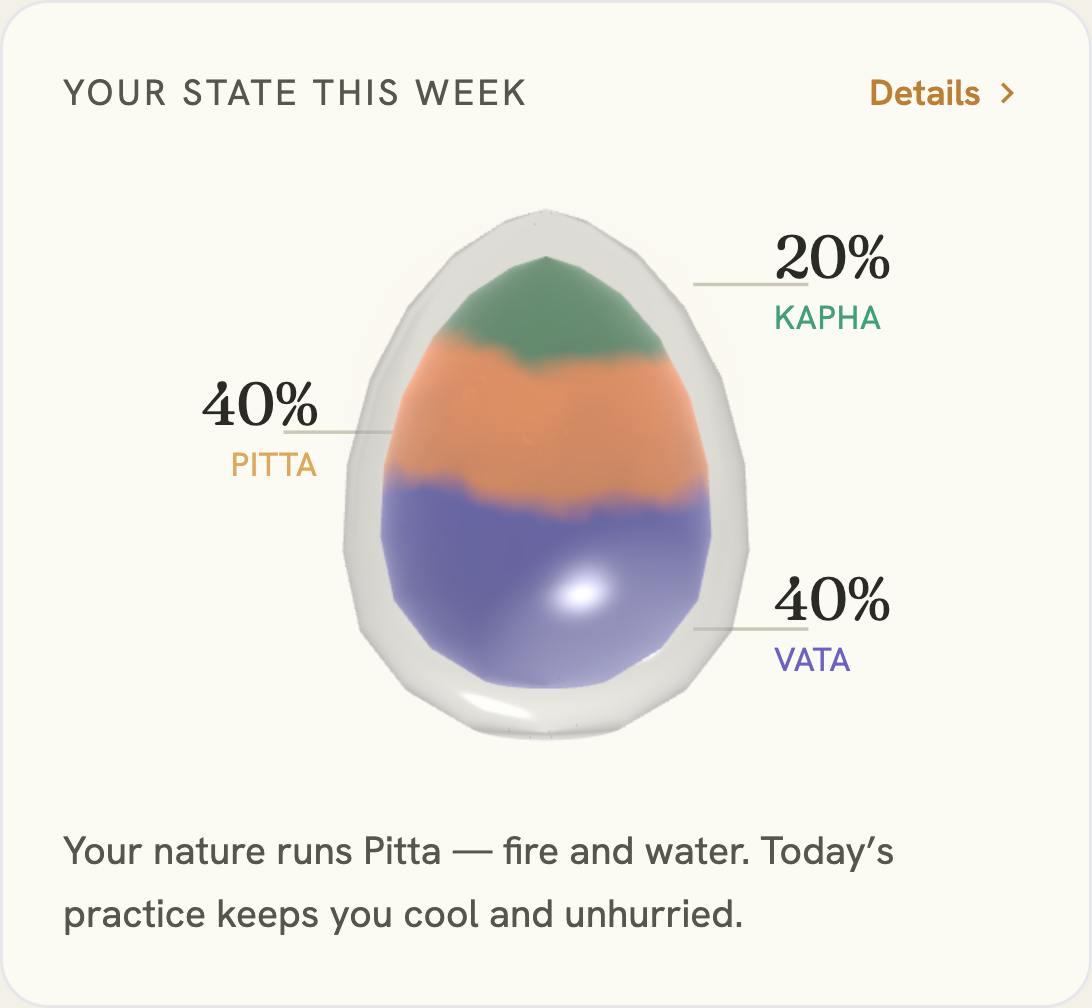
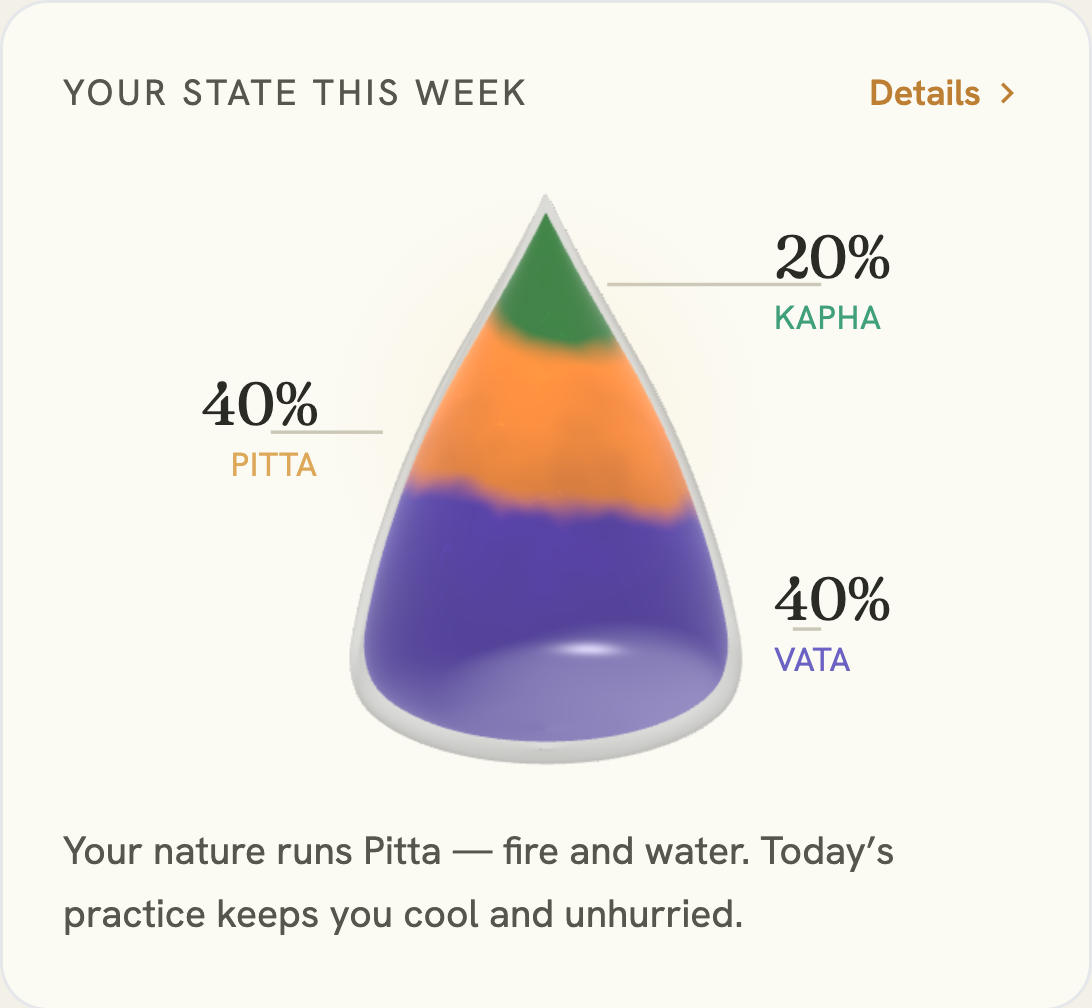
feat(gem): richer teardrop gem — smooth silhouette, edge-aligned labels
Reworked the WebGL dosha gem toward the liquid-glass look:
- teardrop profile (was an egg), smoothed via a Catmull-Rom spline through
  the control points instead of faceted straight segments
- vivid jewel palette (amethyst / honey-gold / emerald), decoupled from the
  softer label swatches; richer depth contrast, tamed specular blowout
- clearer, near-neutral glass shell so the colour reads through
- legend leader lines now terminate exactly on the gem's edge at each band's
  height (gemRadiusAtU), no floating margin at the narrow tip

Re-shot the website hero + home mockup from the new gem.

Changed region(s): [[0.3114, 0.1845, 0.7161, 0.7688]]

diff --git a/src/components/DoshaGem.jsx b/src/components/DoshaGem.jsx
@@ -20,14 +20,40 @@ export const GEM_HUE = {
   pitta: { deep: '#a86a24', base: '#dda85a', light: '#f8dc9f' }, // honey-gold
   kapha: { deep: '#2e6f57', base: '#3fa07a', light: '#8fd4b3' }, // teal-green
 }
+// Liquid hues for the gem itself — more saturated/luminous than the label
+// swatches above, so the glass reads as vivid jewel-toned liquid (the label
+// text keeps the softer GEM_HUE so it stays legible on the card).
+const GEM_LIQUID = {
+  vata:  '#8a3fd4', // amethyst violet
+  pitta: '#edb412', // rich honey-gold
+  kapha: '#0fa457', // deep emerald
+}
 const DOSHAS = ['vata', 'pitta', 'kapha']
 
-// Egg profile (radius, height) revolved into the vessel — rounder + wider than a
-// teardrop, so it sits well in the card.
+// Teardrop profile (radius, height) revolved into the gem — a sharp tip up top
+// widening to a full, round bottom, matching the liquid-glass gem art. Height
+// kept ~±1.35 so it fills the card the same as the old egg.
 const PROFILE = [
-  [0.001, 1.28], [0.22, 1.2], [0.47, 1.03], [0.69, 0.77], [0.87, 0.42],
-  [0.98, 0.0], [1.0, -0.42], [0.92, -0.8], [0.71, -1.08], [0.4, -1.28], [0.001, -1.34],
+  [0.001, 1.38], [0.17, 1.06], [0.34, 0.76], [0.52, 0.44], [0.68, 0.10],
+  [0.82, -0.28], [0.92, -0.64], [0.965, -0.96], [0.86, -1.18], [0.52, -1.34], [0.001, -1.4],
 ]
+const GEM_MAX_R = Math.max(...PROFILE.map(p => p[0]))
+// Silhouette half-width (as a fraction of the widest point, 0..1) at a stacked
+// band position u — u = 0 at the gem's bottom, 1 at the top, matching the
+// shader's `u = y*0.42 + 0.5` fill axis. The legend uses this so each leader
+// line ends exactly on the gem's edge at that band's height (the teardrop is
+// narrow up top, wide low), instead of stopping at a fixed margin.
+export function gemRadiusAtU(u) {
+  const y = (Math.min(1, Math.max(0, u)) - 0.5) / 0.42
+  for (let i = 0; i < PROFILE.length - 1; i++) {
+    const [r0, y0] = PROFILE[i], [r1, y1] = PROFILE[i + 1]
+    if (y <= y0 && y >= y1) {
+      const t = (y0 - y) / ((y0 - y1) || 1)
+      return (r0 + (r1 - r0) * t) / GEM_MAX_R
+    }
+  }
+  return (y > PROFILE[0][1] ? PROFILE[0][0] : PROFILE[PROFILE.length - 1][0]) / GEM_MAX_R
+}
 
 const NOISE_GLSL = /* glsl */`
 vec4 permute(vec4 x){return mod(((x*34.0)+1.0)*x, 289.0);}
@@ -96,29 +122,30 @@ void main(){
   col = mix(col, uCol1, smoothstep(uT0 - e, uT0 + e, u));
   col = mix(col, uCol2, smoothstep(uT1 - e, uT1 + e, u));
 
-  // liquid depth — rich and dark deep in the body, luminous toward the top
+  // liquid depth — rich and dark deep in the body, luminous toward the top.
+  // wide range → strong volume: deep jewel shadows low, glowing highlights high.
   float depth = smoothstep(-1.2, 1.2, vPos.y + 0.5*(w1 - 0.5));
-  col *= mix(0.98, 1.6, depth);           // more contrast → the liquid gains volume, rich low → bright high
+  col *= mix(0.76, 1.78, depth);          // more contrast → the liquid gains volume, rich low → bright high
   // animated internal swirl ribbons
   float swirl = fbm(pw*2.2 + vec3(warp*1.6, t*0.22));
-  col = mix(col, col*1.28, smoothstep(0.45, 0.78, swirl));
+  col = mix(col, col*1.42, smoothstep(0.42, 0.80, swirl));
   // tiny drifting glints, like light catching the liquid
   float spk = fbm(pw*9.0 + vec3(t*0.5, -t*0.45, t*0.35));
-  col += smoothstep(0.82, 0.95, spk) * 0.65;
+  col += smoothstep(0.82, 0.95, spk) * 0.4;
 
   // glassy highlights: fresnel rim + a tight specular hotspot for a wet, liquid sheen
   vec3 viewDir = normalize(cameraPosition - vWorld);
   vec3 N = normalize(vNormalW);
   float fres = pow(1.0 - max(dot(N, viewDir), 0.0), 2.5);
-  col += fres * 0.30;
+  col += fres * 0.20;
   vec3 L = normalize(vec3(-0.5, 0.95, 0.6));
-  float spec = pow(max(dot(reflect(-L, N), viewDir), 0.0), 22.0);
-  col += spec * 0.9;                       // bright wet hotspot (top-left)
+  float spec = pow(max(dot(reflect(-L, N), viewDir), 0.0), 26.0);
+  col += spec * 0.5;                        // bright wet hotspot (top-left)
   float hl = smoothstep(0.6, 1.0, dot(N, L));
   col += hl * 0.16;                         // soft broad sheen
 
-  // light translucent lift — keep it glassy
-  col = mix(col, vec3(1.0, 0.985, 0.95), 0.12);
+  // light translucent lift — keep it glassy (subtle, so hues stay saturated)
+  col = mix(col, vec3(1.0, 0.985, 0.95), 0.05);
   // encode linear→sRGB for output (a raw ShaderMaterial doesn't get three's
   // automatic colorspace pass, so without this the true colour renders muddy).
   col = pow(clamp(col, 0.0, 1.0), vec3(0.4545));
@@ -169,12 +196,17 @@ export default function DoshaGem({ percentages = null, dominant = null, size = 1
       camera = new THREE.PerspectiveCamera(30, w / h, 0.1, 100)
       camera.position.set(0, 0, 5.6)
 
-      glassGeo = new THREE.LatheGeometry(PROFILE.map(([x, y]) => new THREE.Vector2(x, y)), 96)
+      // Smooth the silhouette: fit a Catmull-Rom spline through the control
+      // points and sample it densely, so the teardrop reads as one flowing
+      // curve rather than faceted straight segments.
+      const spline = new THREE.SplineCurve(PROFILE.map(([x, y]) => new THREE.Vector2(x, y)))
+      const profilePts = spline.getPoints(90).map(p => new THREE.Vector2(Math.max(0.001, p.x), p.y))
+      glassGeo = new THREE.LatheGeometry(profilePts, 128)
       glassGeo.center()
 
       glassMat = new THREE.MeshPhysicalMaterial({
-        color: 0xfffdf8, metalness: 0, roughness: 0.12, transmission: 0.96, thickness: 0.35,
-        ior: 1.5, clearcoat: 1.0, clearcoatRoughness: 0.08, envMapIntensity: 3.0, transparent: true,
+        color: 0xfbfcff, metalness: 0, roughness: 0.045, transmission: 0.98, thickness: 0.18,
+        ior: 1.5, clearcoat: 1.0, clearcoatRoughness: 0.04, envMapIntensity: 1.7, transparent: true,
       })
       const glass = new THREE.Mesh(glassGeo, glassMat)
 
@@ -188,9 +220,9 @@ export default function DoshaGem({ percentages = null, dominant = null, size = 1
           uTime: { value: 0 },
           // true saturated hues — now that output is sRGB-encoded these render
           // as luminous liquid (gold/violet/teal) rather than muddy earth tones.
-          uCol0: { value: linearRGB(GEM_HUE[ord[0]].base) },
-          uCol1: { value: linearRGB(GEM_HUE[ord[1]].base) },
-          uCol2: { value: linearRGB(GEM_HUE[ord[2]].base) },
+          uCol0: { value: linearRGB(GEM_LIQUID[ord[0]]) },
+          uCol1: { value: linearRGB(GEM_LIQUID[ord[1]]) },
+          uCol2: { value: linearRGB(GEM_LIQUID[ord[2]]) },
           // Push a threshold out of range when its zone is empty, so a 0% dosha
           // never bleeds a sliver at the edge.
           uT0: { value: frac[1] > 0.004 ? frac[0] : 2.0 },
@@ -199,7 +231,7 @@ export default function DoshaGem({ percentages = null, dominant = null, size = 1
       })
       liquidGeo = glassGeo.clone()
       const liquid = new THREE.Mesh(liquidGeo, liquidMat)
-      liquid.scale.setScalar(0.82)
+      liquid.scale.setScalar(0.93)
 
       const group = new THREE.Group()
       group.add(liquid, glass)

diff --git a/src/pages/HomePage.jsx b/src/pages/HomePage.jsx
@@ -16,7 +16,7 @@ import PaywallSheet from '../components/PaywallSheet'
 import WelcomeToPlusCard from '../components/WelcomeToPlusCard'
 import AnalyticsConsentCard from '../components/AnalyticsConsentCard'
 import MealOfTheDayCard from '../components/MealOfTheDayCard'
-import DoshaGem, { GEM_HUE } from '../components/DoshaGem'
+import DoshaGem, { GEM_HUE, gemRadiusAtU } from '../components/DoshaGem'
 import { track, screen, setSuperProps, EVENTS } from '../lib/track'
 
 // Mirror of YOGI_LEVELS in JourneyPage; kept tiny here to avoid a cross-page
@@ -145,7 +145,12 @@ const DOSHA_INK  = { vata: '#2c5f79', pitta: '#83471a', kapha: '#3a6130' }
 // none), so y maps 1:1 to the container height.
 const GEM_TOP_VY = 22    // viewBox-y of the liquid's visible top (the tip)
 const GEM_BOT_VY = 164   // viewBox-y of the liquid's visible bottom
+const GEM_CX = 150       // gem centre-x in the 300-wide viewBox
+const GEM_EDGE_VX = 80   // half-width (viewBox units) of the gem at its widest
 // Build the per-dosha legend rows from an already-sorted (descending) order.
+// Each row carries the leader line's endpoints: the outer end sits by the
+// label, the inner end lands exactly on the gem's edge at that band's height
+// (narrow near the tip, wide low), so no line floats short of the teardrop.
 function gemLegendRows(order, pct) {
   const total = order.reduce((s, d) => s + (pct[d] || 0), 0) || 1
   let acc = 0
@@ -157,7 +162,10 @@ function gemLegendRows(order, pct) {
     // Middle band sits on the left; top & bottom bands on the right. Keeps the
     // three rows from colliding and mirrors the original around-the-gem look.
     const side = i === 1 ? 'left' : 'right'
-    return { dosha: d, vy, side }
+    const edge = gemRadiusAtU(uCentre) * GEM_EDGE_VX
+    const x1 = side === 'right' ? 236 : 64                       // by the label
+    const x2 = side === 'right' ? GEM_CX + edge : GEM_CX - edge  // on the gem edge
+    return { dosha: d, vy, side, x1, x2 }
   })
 }
 
@@ -705,10 +713,9 @@ export default function HomePage() {
               return (
                 <div className="relative mx-auto my-3" style={{ width: '100%', maxWidth: 320, height: 208 }}>
                   <svg viewBox="0 0 300 180" preserveAspectRatio="none" className="absolute inset-0 w-full h-full pointer-events-none" aria-hidden="true">
-                    {rows.map(({ dosha, vy, side }) => (
+                    {rows.map(({ dosha, vy, x1, x2 }) => (
                       <line key={dosha}
-                        x1={side === 'right' ? 232 : 68} y1={vy}
-                        x2={side === 'right' ? 196 : 104} y2={vy}
+                        x1={x1} y1={vy} x2={x2} y2={vy}
                         stroke="var(--color-outline-variant)" strokeWidth="1" />
                     ))}
                   </svg>
